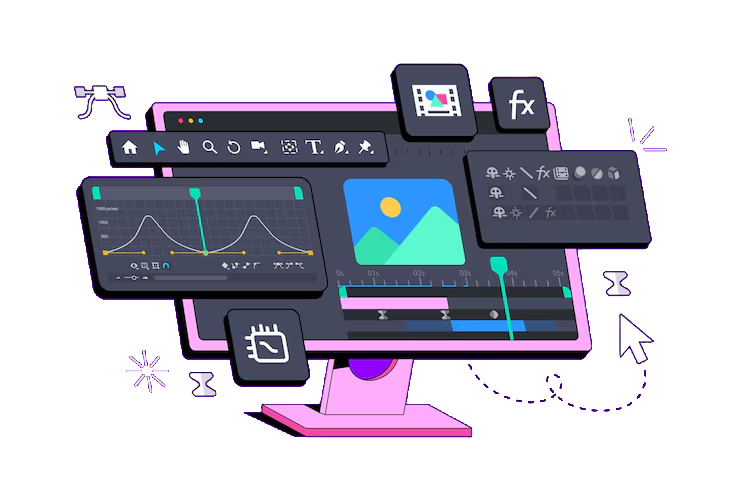
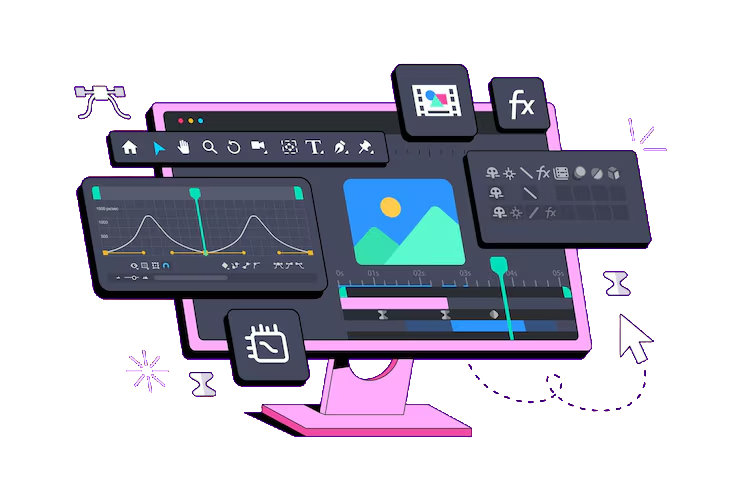
feat: add category card stack component and showcase assets for hero section

Changed region(s): [[0.4662, 0.7302, 0.5284, 0.7911], [0.1865, 0.7606, 0.2176, 0.7911]]

diff --git a/src/components/hero/CategoryVectorShowcase.tsx b/src/components/hero/CategoryVectorShowcase.tsx
@@ -44,164 +44,18 @@ export const CategoryVectorShowcase: React.FC<CategoryVectorShowcaseProps> = ({
         </defs>
 
         {/* ================================================================ */}
-        {/* CARD 1: ILLUSTRATIONS / MOTION GRAPHICS (1:1 Reference Frame)    */}
-        {/* Mustard yellow hand holding pencil drawing chair & fruit bowl     */}
+        {/* CARD 1: MOTION GRAPHICS BANNER (Transparent Monitor Workspace)  */}
         {/* ================================================================ */}
-        {category === 'motion-graphics' && (
+        {(category === 'motion-graphics' || category === 'motion-graphic') && (
           <g id="illustration-card-1">
-            {/* 1. White Canvas Artboard on the right */}
-            <g id="drawing-artboard">
-              {/* Artboard Frame */}
-              <rect
-                x="435"
-                y="25"
-                width="280"
-                height="340"
-                rx="26"
-                fill="#000000"
-                stroke="#ffffff"
-                strokeWidth="3.5"
-              />
-
-              {/* Minimalist Chair in White Outline */}
-              <g id="chair-drawing" stroke="#ffffff" strokeWidth="3.5" strokeLinecap="round" strokeLinejoin="round" fill="none">
-                {/* Chair Seat (Perspective angle) */}
-                <path d="M 485 235 L 575 250 L 665 220 L 565 212 Z" />
-                <path d="M 485 235 L 480 252 L 570 268 L 575 250" />
-
-                {/* Chair Legs reaching to bottom */}
-                <path d="M 480 252 L 472 360" />
-                <path d="M 570 268 L 560 360" />
-                <path d="M 478 310 L 563 322" strokeWidth="2.5" />
-                <path d="M 665 220 L 670 360" />
-
-                {/* Chair Back Slats / Spindles */}
-                <path d="M 585 215 L 590 90" />
-                <path d="M 610 212 L 618 90" />
-                <path d="M 635 210 L 646 90" />
-                <path d="M 660 208 L 672 90" />
-                {/* Curved Top Rail */}
-                <path d="M 580 90 C 600 82, 655 82, 678 90" />
-              </g>
-
-              {/* Bowl of Fruit in Vibrant Cyan / Teal (#00e5c0) Line Art */}
-              <g id="fruit-bowl-drawing" stroke="#00e5c0" strokeWidth="3.5" strokeLinecap="round" strokeLinejoin="round" fill="none">
-                {/* The Fruit Bowl */}
-                <path d="M 470 135 C 505 150, 560 150, 595 135" />
-                <path d="M 470 135 C 475 200, 515 235, 555 235 C 580 235, 595 190, 595 135" />
-                <path d="M 530 235 L 526 246 L 556 246 L 550 235" strokeWidth="2.5" />
-
-                {/* Pear with Stem */}
-                <path d="M 510 140 C 490 120, 515 90, 530 70 C 545 90, 565 120, 545 140 Z" />
-                <path d="M 530 70 C 527 55, 535 45, 533 40" />
-
-                {/* Banana */}
-                <path d="M 495 120 C 530 150, 575 140, 605 85 C 590 120, 545 140, 502 110" />
-
-                {/* Leaves */}
-                <path d="M 478 105 L 486 130" />
-                <path d="M 493 95 L 496 125" />
-
-                {/* Grapes / Berries Cluster */}
-                <circle cx="554" cy="150" r="7" />
-                <circle cx="568" cy="143" r="7" />
-                <circle cx="581" cy="141" r="6.5" />
-                <circle cx="561" cy="162" r="6.5" />
-                <circle cx="575" cy="158" r="6.5" />
-                <circle cx="587" cy="153" r="6" />
-                <circle cx="570" cy="172" r="6" />
-              </g>
-            </g>
-
-            {/* 2. Stylized Mustard-Yellow Hand (#ea9e28) & Pencil */}
-            <g id="mustard-hand-and-pencil">
-              {/* Hand Base & Fan of 3 Raised Fingers */}
-              <path
-                d="M 75 360
-                   L 105 230
-                   C 108 175, 118 100, 138 82
-                   C 150 72, 162 82, 158 98
-                   C 153 125, 146 175, 152 205
-                   C 160 165, 178 120, 192 118
-                   C 204 116, 212 128, 206 148
-                   C 198 175, 194 200, 202 220
-                   C 210 185, 230 142, 246 142
-                   C 256 142, 262 155, 255 174
-                   C 246 200, 238 225, 248 238
-                   C 260 215, 305 200, 345 220
-                   C 375 235, 388 260, 370 282
-                   C 352 298, 325 295, 312 280
-                   C 305 270, 280 305, 255 330
-                   C 235 350, 215 358, 185 360
-                   Z"
-                fill="#ea9e28"
-                stroke="#000000"
-                strokeWidth="3.5"
-                strokeLinejoin="round"
-              />
-
-              {/* Lower Wrist Solid Fill to Bottom Border */}
-              <path d="M 75 360 L 185 360 L 75 360 Z" fill="#ea9e28" />
-
-              {/* Finger Creases (Black Lines matching reference) */}
-              <path d="M 134 94 C 142 97, 149 93, 147 101" stroke="#000000" strokeWidth="2.5" strokeLinecap="round" />
-              <path d="M 188 132 C 195 135, 202 131, 200 139" stroke="#000000" strokeWidth="2.5" strokeLinecap="round" />
-              <path d="M 238 160 C 244 163, 251 159, 249 166" stroke="#000000" strokeWidth="2.5" strokeLinecap="round" />
-
-              {/* 3. The Stylized White Drafting Pencil with Cyan Tip */}
-              <g id="pencil-group" stroke="#000000" strokeWidth="3" strokeLinejoin="round" strokeLinecap="round">
-                {/* Pencil Shaft (White Hexagonal) */}
-                <polygon points="150,295 385,212 393,234 158,317" fill="#ffffff" />
-
-                {/* Hexagonal Facet Lines running down body */}
-                <line x1="153" y1="302" x2="388" y2="219" stroke="#000000" strokeWidth="2.5" />
-                <line x1="155" y1="310" x2="390" y2="227" stroke="#000000" strokeWidth="2.5" />
-
-                {/* End Cap / Ferrule (White rounded cap with black band) */}
-                <path d="M 150 295 C 138 300, 138 312, 158 317" fill="#ffffff" />
-                <line x1="158" y1="292" x2="166" y2="314" stroke="#000000" strokeWidth="4" />
-
-                {/* Sharpened Wood Cone */}
-                <polygon points="385,212 430,196 393,234" fill="#ffffff" />
-                {/* Scalloped facet cuts */}
-                <path d="M 385 212 Q 389 219 388 219 Q 391 227 390 227 Q 393 234 393 234" fill="none" stroke="#000000" strokeWidth="2" />
-
-                {/* Sharp Lead Tip in Vibrant Cyan (#00e5c0) touching artboard */}
-                <polygon points="430,196 450,188 425,206" fill="#00e5c0" />
-              </g>
-
-              {/* Negative Space Opening inside OK grip (shows dark card interior) */}
-              <ellipse cx="295" cy="255" rx="16" ry="18" fill="#000000" stroke="#000000" strokeWidth="2" />
-
-              {/* Thumb Loop Clamping Pencil From Below */}
-              <path
-                d="M 215 340
-                   C 238 295, 282 275, 305 288
-                   C 322 300, 312 328, 288 342
-                   C 265 355, 235 358, 205 360
-                   Z"
-                fill="#ea9e28"
-                stroke="#000000"
-                strokeWidth="3.5"
-                strokeLinejoin="round"
-              />
-              {/* Inner Palm / Thumb Crease */}
-              <path d="M 255 312 C 272 322, 272 336, 262 346" stroke="#000000" strokeWidth="2.5" strokeLinecap="round" />
-
-              {/* Forefinger Clamping Over Pencil from Above */}
-              <path
-                d="M 315 224
-                   C 340 228, 365 244, 358 262
-                   C 352 276, 336 280, 324 268
-                   C 316 258, 314 238, 315 224 Z"
-                fill="#ea9e28"
-                stroke="#000000"
-                strokeWidth="3.5"
-                strokeLinejoin="round"
-              />
-              {/* Forefinger Contour line at tip */}
-              <path d="M 354 252 C 358 259, 356 266, 350 269" stroke="#000000" strokeWidth="2.5" strokeLinecap="round" />
-            </g>
+            <image
+              href="/posters/motion-graphic-banner.png"
+              x="30"
+              y="10"
+              width="640"
+              height="340"
+              preserveAspectRatio="xMidYMid meet"
+            />
           </g>
         )}
 

diff --git a/src/components/hero/CategoryCardStack.tsx b/src/components/hero/CategoryCardStack.tsx
@@ -32,9 +32,9 @@ const showcaseCards: ShowcaseCard[] = [
     nextPeek: 'DESIGN GRAPHIC',
     peekCode: 'DES',
     route: '/work/motion-graphics',
-    type: 'video',
-    videoUrl: '/videos/hero/reference-purrweb.mp4',
-    posterUrl: '/posters/hero-poster.webp',
+    type: 'image',
+    imageUrl: '/posters/motion-graphic-banner.png',
+    posterUrl: '/posters/motion-graphic-banner.png',
   },
   {
     id: 'visual-design',
@@ -207,40 +207,20 @@ export const CategoryCardStack: React.FC<CategoryCardStackProps> = ({
 
               {/* --- CARD MEDIA SHOWCASE BODY (1:1 with reference: full bar, bleeds to bottom edge) --- */}
               <div className="relative w-full flex-1 -mx-6 sm:-mx-8 overflow-hidden flex items-end justify-center">
-                {card.type === 'video' ? (
-                  <div className="relative w-full h-full flex flex-col items-center justify-end overflow-hidden pb-3 px-5 sm:px-8">
-                    <div className="relative w-full h-[230px] sm:h-[265px] rounded-2xl overflow-hidden border border-white/20 bg-[#08080a] shadow-2xl group/player">
-                      <video
-                        src={card.videoUrl || '/videos/hero/reference-purrweb.mp4'}
-                        autoPlay
-                        loop
-                        muted
-                        playsInline
-                        poster={card.posterUrl || '/posters/hero-poster.webp'}
-                        className="w-full h-full object-cover object-center"
-                      >
-                        <source src="/videos/hero/reference-purrweb.mp4" type="video/mp4" />
-                        <source src="https://cdn.dribbble.com/userupload/3989861/file/original-1f1610f0a43c0aed537ab125d7ef8e45.mp4" type="video/mp4" />
-                      </video>
-                      
-                      {/* Subtle Vignette & Gradient Overlays */}
-                      <div className="absolute inset-0 bg-gradient-to-t from-black/85 via-transparent to-black/25 pointer-events-none" />
-
-                      {/* Live Motion Status Badge */}
-                      <div className="absolute top-3 left-3 flex items-center gap-2">
-                        <span className="px-3 py-1 rounded-full bg-black/70 backdrop-blur-md border border-white/25 text-[10px] font-mono text-white flex items-center gap-1.5 shadow-lg">
-                          <span className="w-2 h-2 rounded-full bg-[#00e5c0] animate-pulse" />
-                          MOTION GRAPHIC • 60 FPS
-                        </span>
-                      </div>
-
-                      {/* Bottom Metadata Bar */}
-                      <div className="absolute bottom-3 left-3 right-3 flex items-center justify-between text-white font-mono text-[10px]">
-                        <span className="text-white/90 font-medium">INDRA WIJAYA / SHOWREEL</span>
-                        <span className="px-2 py-0.5 rounded bg-white/10 text-[#00e5c0] border border-white/15">
-                          AFTER EFFECTS + 3D
-                        </span>
-                      </div>
+                {card.id === 'motion-graphics' ? (
+                  <div className="relative w-full h-full flex items-center justify-center overflow-hidden p-2 sm:p-4">
+                    {/* Atmospheric soft teal glow perfectly centered */}
+                    <div className="absolute inset-0 m-auto w-[300px] sm:w-[400px] h-[180px] bg-[#00e5c0]/12 blur-3xl pointer-events-none rounded-full" />
+                    
+                    <div className="relative w-full h-full flex items-center justify-center">
+                      <Image
+                        src="/posters/motion-graphic-banner.png"
+                        alt="Motion Graphic Workspace"
+                        width={740}
+                        height={493}
+                        priority
+                        className="w-auto h-full max-h-[245px] sm:max-h-[285px] object-contain object-center drop-shadow-[0_20px_40px_rgba(0,0,0,0.9)] select-none pointer-events-none transition-transform duration-500 hover:scale-[1.02]"
+                      />
                     </div>
                   </div>
                 ) : (
